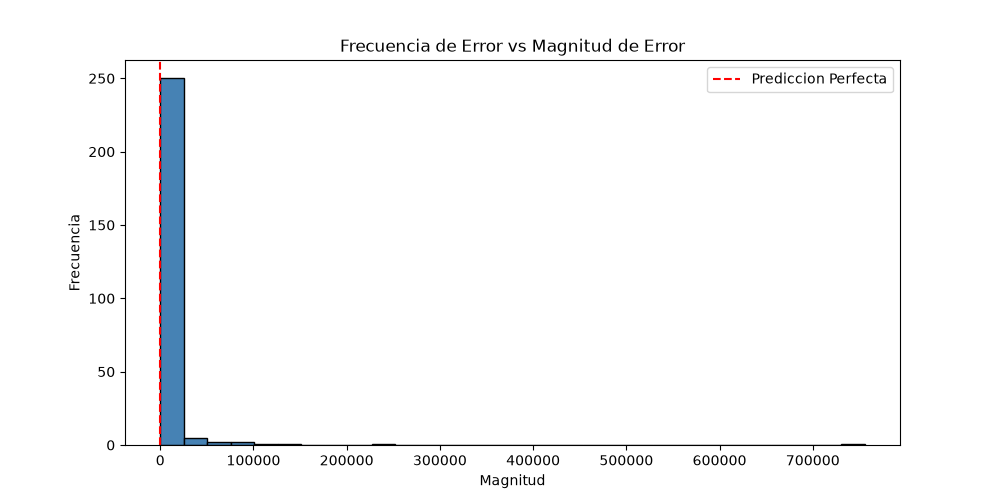
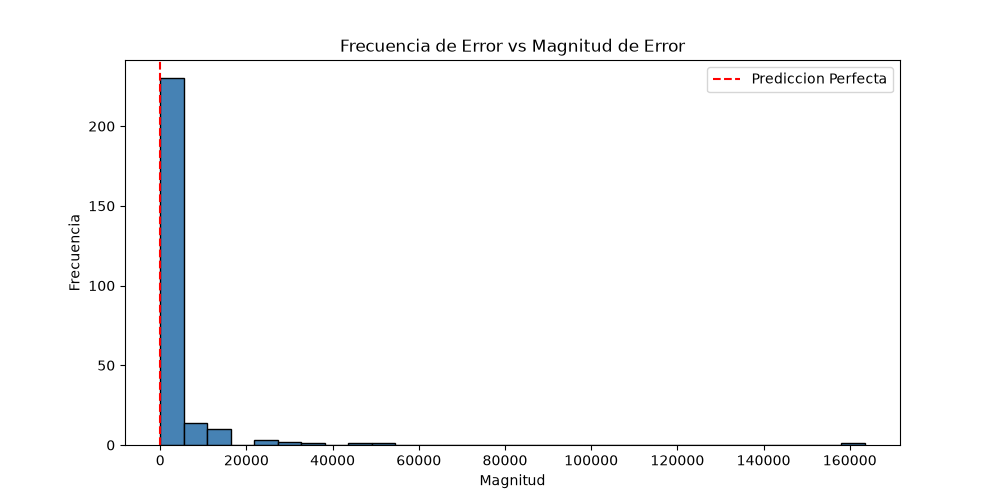
agregar columnas nuevas

diff --git a/lpsmltest.py b/lpsmltest.py
@@ -4,23 +4,40 @@ import matplotlib.pyplot as plt
 from sklearn.metrics import mean_absolute_error
 from sklearn.metrics import mean_absolute_percentage_error
 
-def computemetrics(model, X_test, Y_test):
+def computemetrics(model, X_test, Y_test, X_train):
     real_values = Y_test
     print("Accuracy: ", model.score(X_test, Y_test))
-    df = pd.read_excel("newtarifa.xlsx",engine="openpyxl")
-
+    
+    # Read the full original dataset
+    df = pd.read_excel("newtarifa.xlsx", engine="openpyxl")
+    
     y_true = np.array(real_values)
     pred_values = model.predict(X_test)
     y_pred = np.array(pred_values)
-    df["Prima Previsto"]= y_pred
-    df["Diferencia"]= abs(y_true - y_pred)
+    
+    # Calculate percentage error
+    percentage_error = ((y_true - y_pred) / y_true) * 100
+    
+    # Initialize new columns with NaN for training rows (signifies not predicted)
+    df["Prima Previsto"] = np.nan
+    df["Porcentaje Error"] = np.nan
+    
+    # Get the indices of test samples (Y_test has the original indices)
+    test_indices = Y_test.index.tolist()
+    
+    # Fill in predictions and errors only for test rows
+    for idx, pred, error in zip(test_indices, pred_values, percentage_error):
+        df.loc[idx, "Prima Previsto"] = float(pred)
+        df.loc[idx, "Porcentaje Error"] = float(error)
 
     mae = mean_absolute_error(y_true, y_pred)
     print(f"Mean Absolute Error: {mae}")
 
+    # Create analysis dataframe for visualizations
     analysis_df = pd.DataFrame({
         'Real': y_true,
         'Previsto': y_pred,
+        'Porcentaje Error': percentage_error,
         'Error_Absoluto': np.abs(y_true - y_pred),
         'Residual': y_true - y_pred
     })
@@ -53,4 +70,6 @@ def computemetrics(model, X_test, Y_test):
     plt.ylabel("Frecuencia")
     plt.legend()
     plt.savefig("Hist_error.png")
+    
+    # Save full dataframe with predictions and errors to Excel
     df.to_excel("newtarifa.xlsx", index=False)

diff --git a/lpsmltraining.py b/lpsmltraining.py
@@ -19,4 +19,4 @@ X_test = scaler.transform(X_test)
 
 model = RandomForestRegressor()
 model.fit(X_train, Y_train)
-computemetrics(model, X_test, Y_test)
+computemetrics(model, X_test, Y_test, X_train)